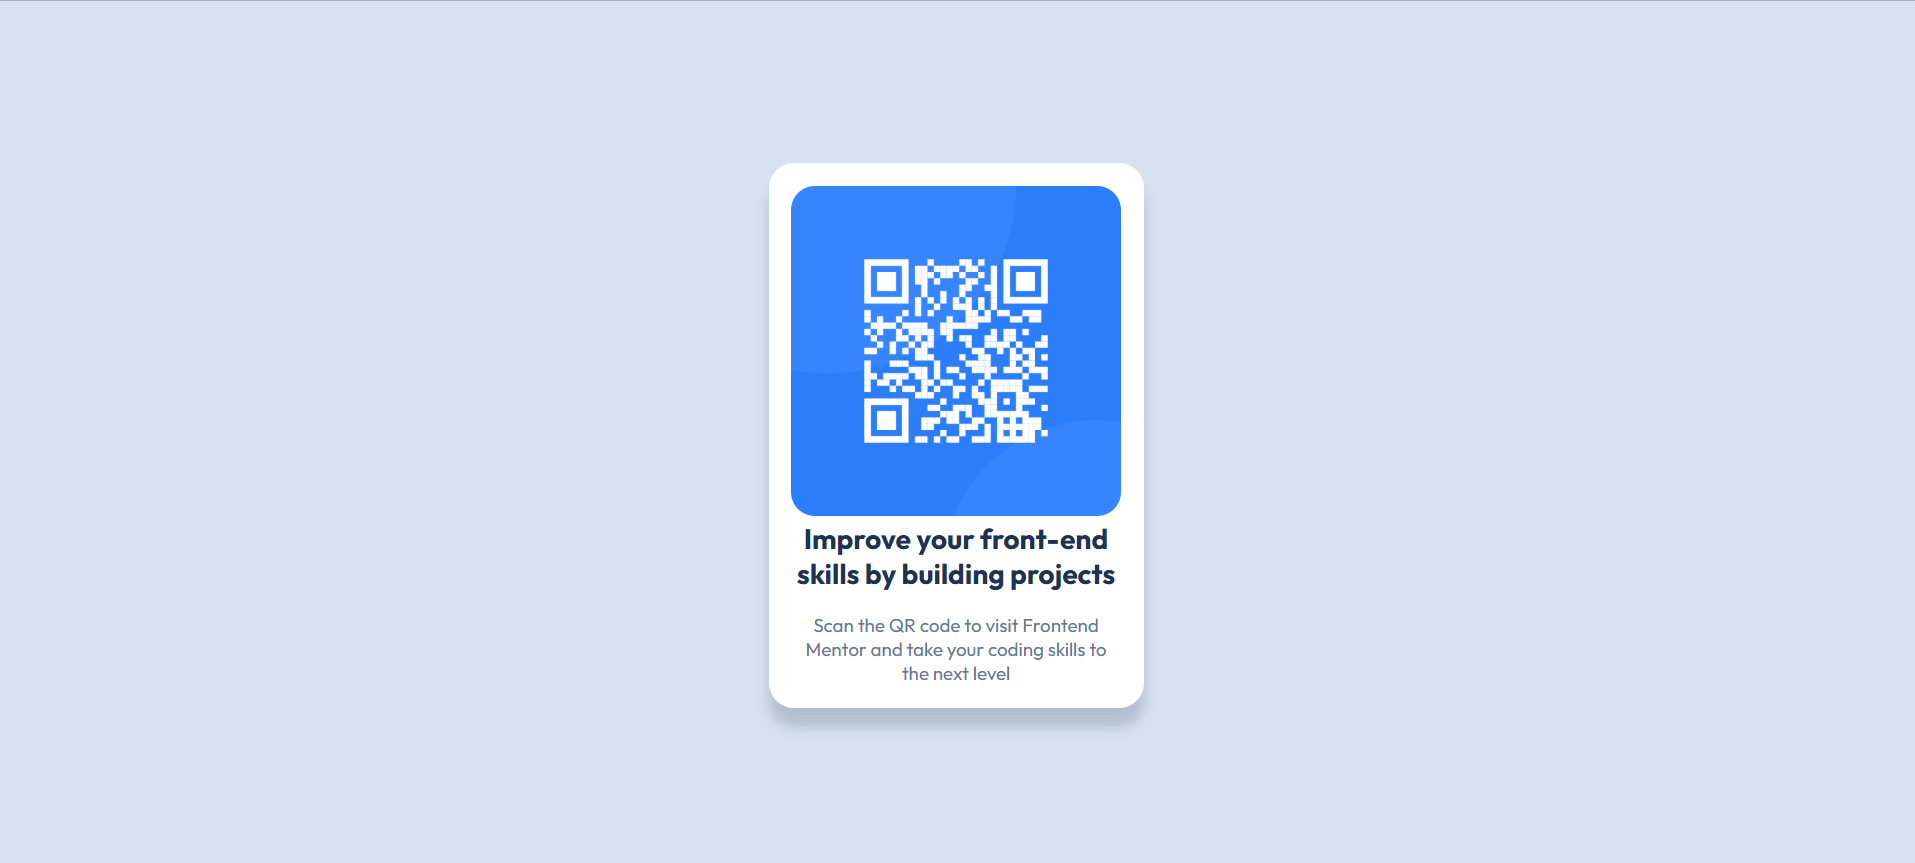
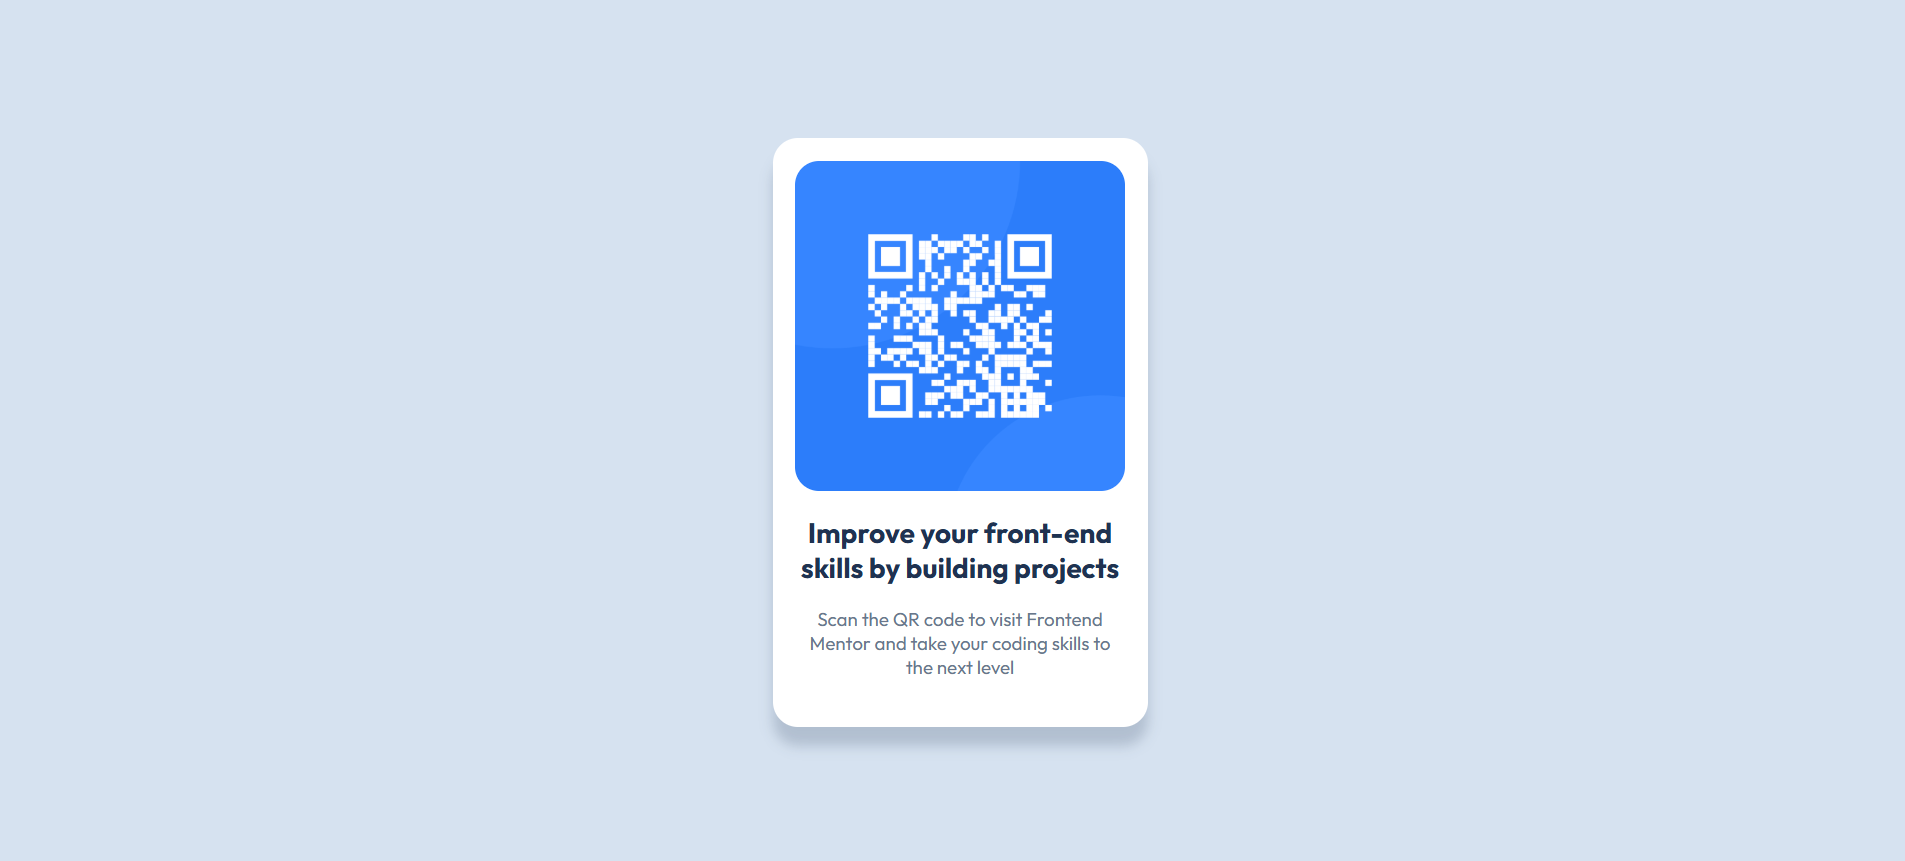
alteracao3

Changed region(s): [[0.4026, 0.151, 0.6194, 0.8757]]

diff --git a/index.html b/index.html
@@ -1,5 +1,5 @@
 <!DOCTYPE html>
-<html lang="en">
+<html lang="pt-br">
 <head>
   <meta charset="UTF-8">
   <link rel="preconnect" href="https://fonts.googleapis.com">

diff --git a/css/style.css b/css/style.css
@@ -46,6 +46,7 @@ body{
     font-weight: 400;
     margin-top: 18px;
     color: hsl(216, 15%, 48%);
+    padding-bottom: 20px;
 }
 
 
